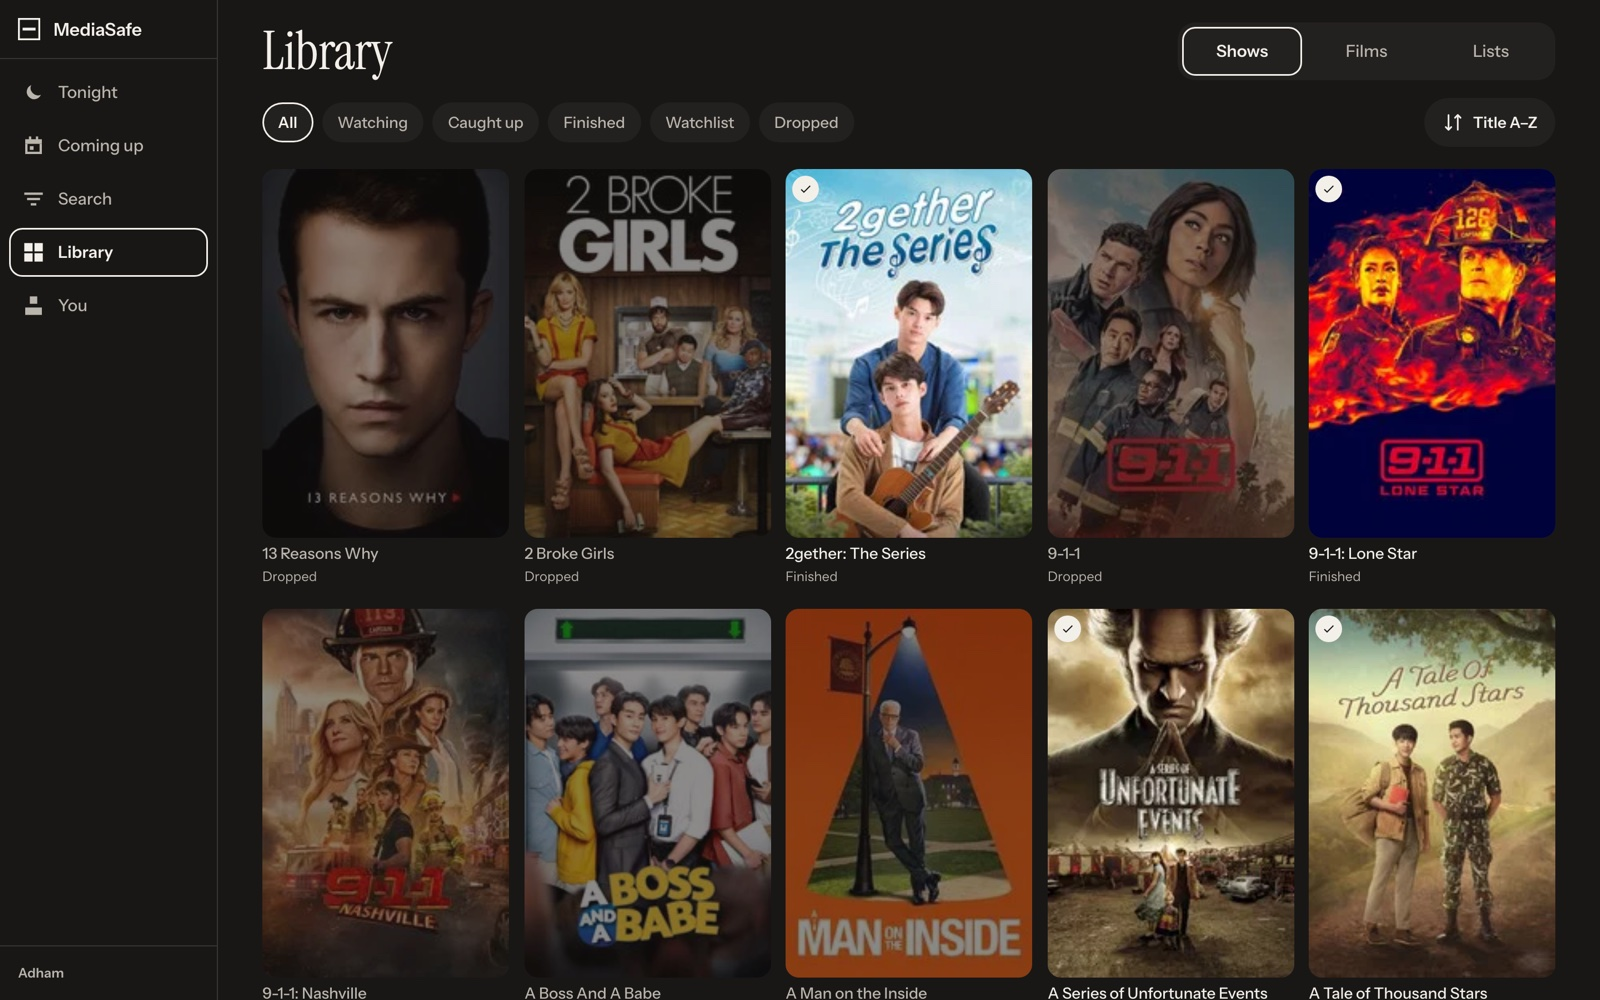
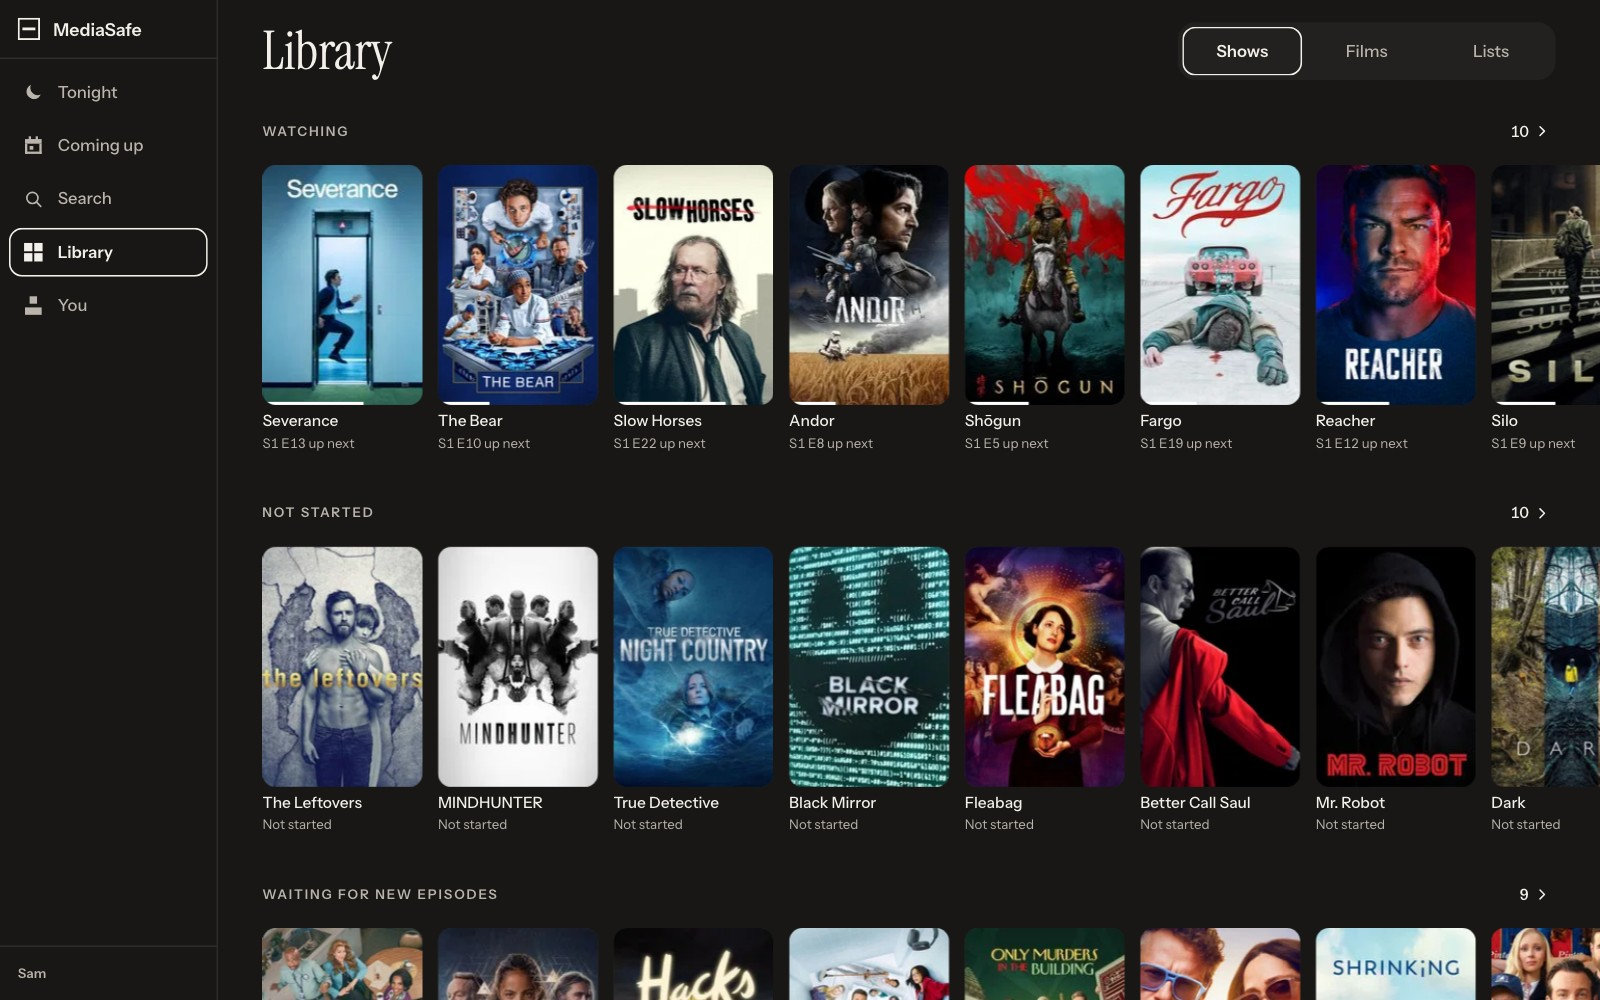
Retake the Library screenshot for the sections view (#593)
Seeded library of real titles (script under tests/e2e/support/), README alt text and
the note about whose library is shown updated to match.

diff --git a/tests/e2e/support/seed-library-screenshot.ts b/tests/e2e/support/seed-library-screenshot.ts
@@ -1,0 +1,229 @@
+import { randomUUID } from "node:crypto";
+import { mkdirSync, writeFileSync } from "node:fs";
+import path from "node:path";
+
+import { eq } from "drizzle-orm";
+import { drizzle } from "drizzle-orm/neon-serverless";
+
+import { createPool, requireDatabaseUrl } from "@/db/driver";
+import * as schema from "@/db/schema";
+import { seedFixtureSession } from "./fixture-session";
+import { toStorageState } from "./storage-state";
+
+/**
+ * Seeds the library the README's Library screenshot is taken from (issue #593), and writes the
+ * session that signs in to it. Run it by hand against the local Docker Postgres:
+ *
+ *   DATABASE_URL=<a scratch database> npx tsx --env-file-if-exists=.env \
+ *     tests/e2e/support/seed-library-screenshot.ts <out.json>
+ *
+ * Seed an empty scratch database, not the one the specs share: it takes each title's real TMDB
+ * id, so a title already stored under that id keeps its own episodes and the states come out
+ * wrong. A database just created and migrated is the safe case.
+ *
+ * It is not a spec and nothing imports it. It lives here because it reuses this folder's
+ * session fixture, and for the same reason `fixture-session.ts` gives: it writes rows no
+ * application path would, for an account that is never real user data.
+ *
+ * ── Real titles, so the posters are real ────────────────────────────────────────────────
+ *
+ * Each name is looked up on TMDB for its id, year and poster, so the grid draws artwork the
+ * way the app does. The episodes are made up (one season, all aired in the past): the Library
+ * page shows a state and a progress bar, never an episode name. The state each show lands in
+ * comes from the watches and `in_production` set here, not from TMDB: *Waiting for new
+ * episodes* is every aired episode watched with the show still in production, *Finished* the
+ * same with it ended. Needs `TMDB_READ_ACCESS_TOKEN` in the environment.
+ */
+
+interface Show {
+  readonly name: string;
+  readonly episodes: number;
+  /** How many of the episodes, from the first, are watched. */
+  readonly watched: number;
+  readonly inProduction: boolean;
+  readonly abandoned?: boolean;
+}
+
+// Within a section, Watching is ordered by latest watch (first listed = most recent) and Not
+// started by when it was added (the last one added comes first), so Not started is listed
+// oldest-first here.
+const WATCHING: readonly Show[] = [
+  { name: "Severance", episodes: 19, watched: 12, inProduction: true },
+  { name: "The Bear", episodes: 28, watched: 9, inProduction: true },
+  { name: "Slow Horses", episodes: 30, watched: 21, inProduction: true },
+  { name: "Andor", episodes: 24, watched: 7, inProduction: false },
+  { name: "Shōgun", episodes: 10, watched: 4, inProduction: true },
+  { name: "Fargo", episodes: 51, watched: 18, inProduction: true },
+  { name: "Reacher", episodes: 24, watched: 11, inProduction: true },
+  { name: "Silo", episodes: 20, watched: 8, inProduction: true },
+  { name: "Pachinko", episodes: 16, watched: 5, inProduction: true },
+  { name: "Poker Face", episodes: 20, watched: 14, inProduction: true },
+];
+
+const NOT_STARTED: readonly Show[] = [
+  { name: "The Wire", episodes: 60, watched: 0, inProduction: false },
+  { name: "Chernobyl", episodes: 5, watched: 0, inProduction: false },
+  { name: "Dark", episodes: 26, watched: 0, inProduction: false },
+  { name: "Mr. Robot", episodes: 45, watched: 0, inProduction: false },
+  { name: "Better Call Saul", episodes: 63, watched: 0, inProduction: false },
+  { name: "Fleabag", episodes: 12, watched: 0, inProduction: false },
+  { name: "Black Mirror", episodes: 33, watched: 0, inProduction: false },
+  { name: "True Detective", episodes: 32, watched: 0, inProduction: false },
+  { name: "Mindhunter", episodes: 19, watched: 0, inProduction: false },
+  { name: "The Leftovers", episodes: 28, watched: 0, inProduction: false },
+];
+
+const WAITING: readonly Show[] = [
+  { name: "Ted Lasso", episodes: 34, watched: 34, inProduction: true },
+  { name: "Only Murders in the Building", episodes: 40, watched: 40, inProduction: true },
+  { name: "Abbott Elementary", episodes: 54, watched: 54, inProduction: true },
+  { name: "Hacks", episodes: 30, watched: 30, inProduction: true },
+  { name: "Shrinking", episodes: 22, watched: 22, inProduction: true },
+  { name: "The Last of Us", episodes: 16, watched: 16, inProduction: true },
+  { name: "Foundation", episodes: 30, watched: 30, inProduction: true },
+  { name: "Mythic Quest", episodes: 39, watched: 39, inProduction: true },
+  { name: "Platonic", episodes: 20, watched: 20, inProduction: true },
+];
+
+const FINISHED: readonly Show[] = [
+  { name: "Breaking Bad", episodes: 62, watched: 62, inProduction: false },
+  { name: "Succession", episodes: 39, watched: 39, inProduction: false },
+  { name: "Station Eleven", episodes: 10, watched: 10, inProduction: false },
+  { name: "The Queen's Gambit", episodes: 7, watched: 7, inProduction: false },
+  { name: "Barry", episodes: 32, watched: 32, inProduction: false },
+];
+
+const DROPPED: readonly Show[] = [
+  { name: "The Walking Dead", episodes: 177, watched: 31, inProduction: false, abandoned: true },
+  { name: "Lost in Space", episodes: 28, watched: 6, inProduction: false, abandoned: true },
+];
+
+interface TmdbHit {
+  readonly id: number;
+  readonly name: string;
+  readonly poster_path: string | null;
+  readonly first_air_date?: string;
+}
+
+async function lookUp(name: string, token: string): Promise<TmdbHit> {
+  const response = await fetch(
+    `https://api.themoviedb.org/3/search/tv?query=${encodeURIComponent(name)}`,
+    { headers: { Authorization: `Bearer ${token}` } },
+  );
+  if (!response.ok) throw new Error(`TMDB search for "${name}" answered ${response.status}`);
+
+  const body = (await response.json()) as { results: TmdbHit[] };
+  const withPoster = body.results.filter((result) => result.poster_path);
+  const hit =
+    withPoster.find((result) => result.name.toLowerCase() === name.toLowerCase()) ?? withPoster[0];
+  if (!hit) throw new Error(`TMDB has no poster for "${name}"`);
+  return hit;
+}
+
+async function main(): Promise<void> {
+  const out = process.argv[2];
+  const token = process.env.TMDB_READ_ACCESS_TOKEN;
+  if (!out) throw new Error("Usage: seed-library-screenshot.ts <storage-state-out.json>");
+  if (!token) throw new Error("TMDB_READ_ACCESS_TOKEN is not set.");
+
+  const session = await seedFixtureSession();
+  const pool = createPool(requireDatabaseUrl());
+  const db = drizzle(pool, { schema });
+
+  try {
+    // The sidebar prints the account's name; a fixture's own would read "Playwright Fixture".
+    await db.update(schema.user).set({ name: "Sam" }).where(eq(schema.user.id, session.userId));
+
+    const day = 24 * 60 * 60 * 1000;
+    const aired = (daysAgo: number) =>
+      new Date(Date.now() - daysAgo * day).toISOString().slice(0, 10);
+
+    // Oldest watch first so a later show ranks higher in Watching.
+    const ordered: readonly Show[] = [
+      ...[...WATCHING].reverse(),
+      ...NOT_STARTED,
+      ...WAITING,
+      ...FINISHED,
+      ...DROPPED,
+    ];
+
+    let recent = 0;
+    for (const show of ordered) {
+      const hit = await lookUp(show.name, token);
+      const [titleRow] = await db
+        .insert(schema.title)
+        .values({
+          kind: "show",
+          tmdbId: hit.id,
+          name: hit.name,
+          releaseYear: hit.first_air_date ? Number(hit.first_air_date.slice(0, 4)) : null,
+          posterPath: hit.poster_path,
+          inProduction: show.inProduction,
+        })
+        .onConflictDoUpdate({
+          target: [schema.title.kind, schema.title.tmdbId],
+          set: { posterPath: hit.poster_path, inProduction: show.inProduction },
+        })
+        .returning({ id: schema.title.id });
+
+      const existing = await db
+        .select({ id: schema.episode.id })
+        .from(schema.episode)
+        .where(eq(schema.episode.titleId, titleRow.id));
+      if (existing.length === 0) {
+        await db.insert(schema.episode).values(
+          Array.from({ length: show.episodes }, (_, index) => ({
+            titleId: titleRow.id,
+            tmdbEpisodeId: hit.id * 1000 + index + 1,
+            seasonNo: 1,
+            episodeNo: index + 1,
+            name: `Episode ${index + 1}`,
+            airDate: aired(400 - index),
+          })),
+        );
+      }
+
+      const [entryRow] = await db
+        .insert(schema.libraryEntry)
+        .values({
+          userId: session.userId,
+          titleId: titleRow.id,
+          abandonedAt: show.abandoned ? new Date() : null,
+        })
+        .returning({ id: schema.libraryEntry.id });
+
+      if (show.watched > 0) {
+        recent += 1;
+        const episodes = await db
+          .select({ id: schema.episode.id, episodeNo: schema.episode.episodeNo })
+          .from(schema.episode)
+          .where(eq(schema.episode.titleId, titleRow.id));
+
+        for (const episode of episodes) {
+          if (episode.episodeNo > show.watched) continue;
+          await db.insert(schema.watch).values({
+            userId: session.userId,
+            libraryEntryId: entryRow.id,
+            titleId: titleRow.id,
+            episodeId: episode.id,
+            // Each show's watches end a little later than the one before it.
+            watchedAt: new Date(Date.now() - 60 * day + recent * day + episode.episodeNo * 1000),
+            source: "e2e-fixture",
+            sourceKey: randomUUID(),
+          });
+        }
+      }
+    }
+  } finally {
+    await pool.end();
+  }
+
+  mkdirSync(path.dirname(path.resolve(out)), { recursive: true });
+  writeFileSync(path.resolve(out), JSON.stringify(toStorageState(session), null, 2));
+  console.log(`Seeded ${session.email}; session written to ${out}`);
+}
+
+main().catch((error: unknown) => {
+  console.error(error);
+  process.exit(1);
+});

diff --git a/README.md b/README.md
@@ -18,8 +18,9 @@ k3s cluster in my home lab, deployed with Argo CD and reached through a Cloudfla
 
 > **Status: actively developed and deployed.** Every merge to `main` ships to staging
 > automatically; production is promoted by hand. 800+ commits, 200+ merged pull requests and
-> 140+ test files since August 2026. The library in these screenshots is my real one —
-> 460 shows and ~19,500 watched episodes carried over from the previous version of this app.
+> 140+ test files since August 2026. The library in the Tonight and You screenshots is my real
+> one — 460 shows and ~19,500 watched episodes carried over from the previous version of this app.
+> The Library screenshot is a seeded demo library of real titles with made-up watching.
 
 You can sign in at [mediasafe.space](https://mediasafe.space) with any Google account; a new
 account starts empty and can add titles from search.
@@ -44,7 +45,7 @@ account starts empty and can add titles from search.
 - Works as an installable app on a phone, in light and dark.
 
 <p align="center">
-  <img src="docs/screenshots/library.desktop.dark.jpg" alt="Library: a poster grid of shows, with a Shows, Films and Lists switch and a sort control" width="49%">
+  <img src="docs/screenshots/library.desktop.dark.jpg" alt="Library: shows grouped into sections by where each one stands — Watching, Not started and Waiting for new episodes — each a row of posters with a count, under a Shows, Films and Lists switch" width="49%">
   <img src="docs/screenshots/you.desktop.light.jpg" alt="You: watch time, totals and a year of watching as a heatmap, in the light theme" width="49%">
 </p>
 
